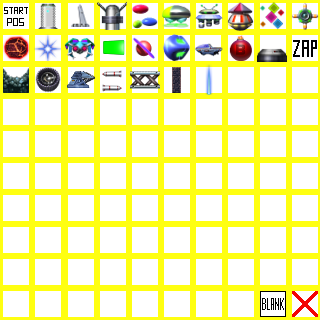
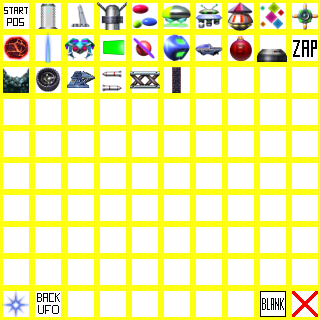
Essential backup

diff --git a/core/src/com/richikin/jetman/entities/hero/MainPlayer.java b/core/src/com/richikin/jetman/entities/hero/MainPlayer.java
@@ -26,8 +26,8 @@ public class MainPlayer extends GdxSprite
     public static final float _PLAYER_JUMP_X_SPEED = 16.0f;
     public static final float _PLAYER_Y_SPEED      = 4.0f;
 
-    private static final int   _SPAWN_FRAMES        = 20;
-    private static final int   _PLAYER_APPEAR_FRAME = 13;
+    private static final int _SPAWN_FRAMES        = 20;
+    private static final int _PLAYER_APPEAR_FRAME = 13;
 
     public boolean isRidingRover;
     public boolean isOnRoverBack;
@@ -45,12 +45,13 @@ public class MainPlayer extends GdxSprite
     public boolean isBlockedLeft;
     public boolean isBlockedRight;
 
-    public float    shootRate;
-    public int      shootCount;
-    public float    maxMoveSpeed;
+    public float shootRate;
+    public int   shootCount;
+    public float maxMoveSpeed;
 
-    private TextureRegion bridgeSection;
-    private int           laserColour;
+    private SpriteDescriptor descriptor;
+    private TextureRegion    bridgeSection;
+    private int              laserColour;
 
     public ButtonInputHandler  buttons;
     public CollisionHandler    collision;
@@ -65,9 +66,11 @@ public class MainPlayer extends GdxSprite
     }
 
     @Override
-    public void initialise(SpriteDescriptor descriptor)
+    public void initialise(SpriteDescriptor _descriptor)
     {
-        create(descriptor);
+        this.descriptor = _descriptor;
+
+        create(_descriptor);
 
         bodyCategory = Gfx.CAT_PLAYER;
         collidesWith = Gfx.CAT_MOBILE_ENEMY
@@ -317,8 +320,8 @@ public class MainPlayer extends GdxSprite
                 {
                     SpriteDescriptor descriptor = Entities.getDescriptor(this.gid);
 
-                    descriptor._ASSET = GameAssets._PLAYER_DYING;
-                    descriptor._FRAMES = GameAssets._PLAYER_DYING_FRAMES;
+                    descriptor._ASSET    = GameAssets._PLAYER_DYING;
+                    descriptor._FRAMES   = GameAssets._PLAYER_DYING_FRAMES;
                     descriptor._PLAYMODE = Animation.PlayMode.LOOP;
 
                     setAnimation(descriptor, 1.0f);
@@ -334,8 +337,8 @@ public class MainPlayer extends GdxSprite
                 {
                     SpriteDescriptor descriptor = Entities.getDescriptor(this.gid);
 
-                    descriptor._ASSET = GameAssets._PLAYER_FLY;
-                    descriptor._FRAMES = GameAssets._PLAYER_FLY_FRAMES;
+                    descriptor._ASSET    = GameAssets._PLAYER_FLY;
+                    descriptor._FRAMES   = GameAssets._PLAYER_FLY_FRAMES;
                     descriptor._PLAYMODE = Animation.PlayMode.LOOP;
 
                     setAnimation(descriptor, 1.25f);
@@ -348,8 +351,8 @@ public class MainPlayer extends GdxSprite
                 {
                     SpriteDescriptor descriptor = Entities.getDescriptor(this.gid);
 
-                    descriptor._ASSET = GameAssets._PLAYER_RUN;
-                    descriptor._FRAMES = GameAssets._PLAYER_RUN_FRAMES;
+                    descriptor._ASSET    = GameAssets._PLAYER_RUN;
+                    descriptor._FRAMES   = GameAssets._PLAYER_RUN_FRAMES;
                     descriptor._PLAYMODE = Animation.PlayMode.LOOP;
 
                     setAnimation(descriptor, 0.5f);
@@ -365,9 +368,11 @@ public class MainPlayer extends GdxSprite
                 {
                     SpriteDescriptor descriptor = Entities.getDescriptor(this.gid);
 
-                    descriptor._ASSET = GameAssets._PLAYER_IDLE;
-                    descriptor._FRAMES = GameAssets._PLAYER_STAND_FRAMES;
+                    descriptor._ASSET    = GameAssets._PLAYER_IDLE;
+                    descriptor._FRAMES   = GameAssets._PLAYER_STAND_FRAMES;
                     descriptor._PLAYMODE = Animation.PlayMode.LOOP;
+
+                    descriptor.debug();
 
                     setAnimation(descriptor, 1.0f);
 

diff --git a/core/src/com/richikin/jetman/entities/managers/BackgroundObjectsManager.java b/core/src/com/richikin/jetman/entities/managers/BackgroundObjectsManager.java
@@ -4,11 +4,13 @@ import com.badlogic.gdx.graphics.g2d.Animation;
 import com.badlogic.gdx.math.MathUtils;
 import com.richikin.jetman.assets.GameAssets;
 import com.richikin.jetman.core.App;
+import com.richikin.jetman.entities.Entities;
 import com.richikin.jetman.entities.SpriteDescriptor;
 import com.richikin.jetman.entities.characters.TwinkleStar;
 import com.richikin.jetman.entities.characters.Ufo;
 import com.richikin.jetman.graphics.Gfx;
 import com.richikin.jetman.graphics.GraphicID;
+import com.richikin.jetman.maps.TileID;
 
 public class BackgroundObjectsManager
 {
@@ -29,13 +31,18 @@ public class BackgroundObjectsManager
         for (int i = 0; i < numUfos; i++)
         {
             SpriteDescriptor entityDescriptor = new SpriteDescriptor();
+            entityDescriptor._NAME       = "Background Ufo";
+            entityDescriptor._GID        = GraphicID.G_BACKGROUND_UFO;
+            entityDescriptor._TYPE       = GraphicID._ENTITY;
             entityDescriptor._ASSET      = GameAssets._BACKGROUND_UFO_ASSET;
             entityDescriptor._FRAMES     = GameAssets._BACKGROUND_UFO_FRAMES;
             entityDescriptor._PLAYMODE   = Animation.PlayMode.LOOP;
+            entityDescriptor._SIZE       = GameAssets.getAssetSize(GraphicID.G_BACKGROUND_UFO);
             entityDescriptor._POSITION.x = 0;
             entityDescriptor._POSITION.y = 0;
             entityDescriptor._POSITION.z = app.entityUtils.getInitialZPosition(GraphicID.G_BACKGROUND_UFO);
             entityDescriptor._INDEX      = app.entityData.entityMap.size;
+            entityDescriptor._TILE       = TileID._BACKGROUND_UFO_TILE;
 
             Ufo ufo = new Ufo(app);
             ufo.initialise(entityDescriptor);
@@ -71,9 +78,9 @@ public class BackgroundObjectsManager
         {
             String asset = (MathUtils.random(100) < 50) ? GameAssets._TWINKLE_STAR1_ASSET : GameAssets._TWINKLE_STAR2_ASSET;
 
-            SpriteDescriptor entityDescriptor = new SpriteDescriptor();
+            SpriteDescriptor entityDescriptor = Entities.getDescriptor(GraphicID.G_TWINKLE_STAR);
             entityDescriptor._ASSET      = asset;
-            entityDescriptor._FRAMES     = GameAssets._TWINKLE_STAR_FRAMES;
+            entityDescriptor._SIZE       = GameAssets.getAssetSize(GraphicID.G_TWINKLE_STAR);
             entityDescriptor._PLAYMODE   = Animation.PlayMode.LOOP;
             entityDescriptor._POSITION.x = position[0] / Gfx.getTileWidth();
             entityDescriptor._POSITION.y = position[1] / Gfx.getTileHeight();

diff --git a/core/src/com/richikin/jetman/entities/SpriteDescriptor.java b/core/src/com/richikin/jetman/entities/SpriteDescriptor.java
@@ -9,6 +9,7 @@ import com.richikin.jetman.maths.SimpleVec2F;
 import com.richikin.jetman.maths.SimpleVec3;
 import com.richikin.jetman.physics.Direction;
 import com.richikin.jetman.physics.Speed;
+import com.richikin.jetman.utils.logging.Trace;
 
 /**
  * Used for storing relevant information for
@@ -45,7 +46,7 @@ public class SpriteDescriptor
         this._INDEX     = 0;
         this._FRAMES    = 0;
         this._PLAYMODE  = Animation.PlayMode.NORMAL;
-        this._ANIM_RATE = 0f;
+        this._ANIM_RATE = 1.0f;
         this._NAME      = "";
         this._ASSET     = "";
         this._LINK      = 0;
@@ -93,5 +94,27 @@ public class SpriteDescriptor
         this._DIST      = _descriptor._DIST;
         this._SPEED     = _descriptor._SPEED;
         this._BOX       = _descriptor._BOX;
+    }
+
+    public void debug()
+    {
+        Trace.__FILE_FUNC_WithDivider();
+        Trace.dbg("_GID            : " + _GID);
+        Trace.dbg("_TYPE           : " + _TYPE);
+        Trace.dbg("_POSITION       : " + (_POSITION != null ? _POSITION.toString() : "NOT SET"));
+        Trace.dbg("_SIZE           : " + (_SIZE != null ? _SIZE.toString() : "NOT SET"));
+        Trace.dbg("_INDEX          : " + _INDEX);
+        Trace.dbg("_FRAMES         : " + _FRAMES);
+        Trace.dbg("_PLAYMODE       : " + _PLAYMODE);
+        Trace.dbg("_ANIM_RATE      : " + _ANIM_RATE);
+        Trace.dbg("_NAME           : " + (_NAME != null ? _NAME.toString() : "NOT SET"));
+        Trace.dbg("_ASSET          : " + (_ASSET != null ? _ASSET.toString() : "NOT SET"));
+        Trace.dbg("_LINK           : " + _LINK);
+        Trace.dbg("_TILE           : " + _TILE);
+        Trace.dbg("_PARENT         : " + _PARENT);
+        Trace.dbg("_DIR            : " + (_DIR != null ? _DIR.toString() : "NOT SET"));
+        Trace.dbg("_DIST           : " + (_DIST != null ? _DIST.toString() : "NOT SET"));
+        Trace.dbg("_SPEED          : " + (_SPEED != null ? _SPEED.toString() : "NOT SET"));
+        Trace.dbg("_BOX            : " + (_BOX != null ? _BOX.toString() : "NOT SET"));
     }
 }

diff --git a/core/src/com/richikin/jetman/entities/Entities.java b/core/src/com/richikin/jetman/entities/Entities.java
@@ -31,6 +31,20 @@ public abstract class Entities
                     GameAssets._ROVER_GUN_ASSET, GameAssets._ROVER_GUN_FRAMES,
                     TileID._ROVER_GUN_TILE
                 ),
+            new SpriteDescriptor
+                (
+                    "Rover Wheel",
+                    GraphicID.G_ROVER_WHEEL, GraphicID._MAIN,
+                    GameAssets._ROVER_WHEEL_ASSET, GameAssets._ROVER_WHEEL_FRAMES,
+                    TileID._ROVER_WHEEL_TILE
+                ),
+            new SpriteDescriptor
+                (
+                    "Rover Boot",
+                    GraphicID.G_ROVER_BOOT, GraphicID._MAIN,
+                    GameAssets._ROVER_BOOT_ASSET, GameAssets._ROVER_BOOT_FRAMES,
+                    TileID._ROVER_BOOT_TILE
+                ),
 
             // Pickups
             new SpriteDescriptor
@@ -64,6 +78,23 @@ public abstract class Entities
             // Mobile Enemies
 
             // Miscellaneous Enemy Related
+
+            // Background Sprites
+            new SpriteDescriptor
+                (
+                    "Background Ufo",
+                    GraphicID.G_BACKGROUND_UFO, GraphicID._BACKGROUND_ENTITY,
+                    GameAssets._BACKGROUND_UFO_ASSET, GameAssets._BACKGROUND_UFO_FRAMES,
+                    TileID._BACKGROUND_UFO_TILE
+                ),
+
+            new SpriteDescriptor
+                (
+                    "Twinkle Star",
+                    GraphicID.G_TWINKLE_STAR, GraphicID._BACKGROUND_ENTITY,
+                    GameAssets._TWINKLE_STAR1_ASSET, GameAssets._TWINKLE_STAR_FRAMES,
+                    TileID._TWINKLE_STAR_TILE
+                ),
         };
 
     public static int getDescriptorIndex(GraphicID _gid)

diff --git a/core/src/com/richikin/jetman/entities/characters/Rover.java b/core/src/com/richikin/jetman/entities/characters/Rover.java
@@ -6,6 +6,7 @@ import com.badlogic.gdx.graphics.g2d.SpriteBatch;
 import com.richikin.jetman.assets.GameAssets;
 import com.richikin.jetman.core.Actions;
 import com.richikin.jetman.core.App;
+import com.richikin.jetman.entities.Entities;
 import com.richikin.jetman.entities.GdxSprite;
 import com.richikin.jetman.entities.SpriteDescriptor;
 import com.richikin.jetman.graphics.Gfx;
@@ -83,9 +84,8 @@ public class Rover extends GdxSprite
     {
         Trace.__FILE_FUNC();
 
-        SpriteDescriptor descriptor = new SpriteDescriptor();
-        descriptor._ASSET         = GameAssets._ROVER_WHEEL_ASSET;
-        descriptor._FRAMES        = GameAssets._ROVER_WHEEL_FRAMES;
+        SpriteDescriptor descriptor = Entities.getDescriptor(GraphicID.G_ROVER_WHEEL);
+        descriptor._SIZE          = GameAssets.getAssetSize(GraphicID.G_ROVER_WHEEL);
         descriptor._PLAYMODE      = Animation.PlayMode.NORMAL;
         descriptor._POSITION.x    = 0;
         descriptor._POSITION.y    = 0;
@@ -119,9 +119,10 @@ public class Rover extends GdxSprite
         {
             Trace.__FILE_FUNC("Adding Rover Boot.");
 
+            descriptor = Entities.getDescriptor(GraphicID.G_ROVER_BOOT);
+            descriptor._SIZE = GameAssets.getAssetSize(GraphicID.G_ROVER_BOOT);
+            descriptor._POSITION.z = app.entityUtils.getInitialZPosition(GraphicID.G_ROVER_BOOT);
             descriptor._INDEX = app.entityData.entityMap.size;
-            descriptor._ASSET = GameAssets._ROVER_BOOT_ASSET;
-            descriptor._FRAMES = GameAssets._ROVER_BOOT_FRAMES;
 
             roverBack = new GdxSprite(GraphicID.G_ROVER_BOOT, app);
             roverBack.create(descriptor);

diff --git a/core/src/com/richikin/jetman/maps/TileID.java b/core/src/com/richikin/jetman/maps/TileID.java
@@ -19,7 +19,7 @@ public enum TileID
 
     // Row 2
     _ASTEROID_TILE              (11),
-    _TWINKLE_STAR_TILE          (12),
+    _BEAM_TILE                  (12),
     _DOG_TILE                   (13),
     _GREEN_BLOCK_TILE           (14),
     _SPINNING_BALL_TILE         (15),
@@ -36,7 +36,7 @@ public enum TileID
     _ROCKET_TILE                (24),
     _BRIDGE_TILE                (25),
     _TOWER_TILE                 (26),
-    _BEAM_TILE                  (27),
+    _U27_TILE                   (27),
     _U28_TILE                   (28),
     _U29_TILE                   (29),
     _U30_TILE                   (30),
@@ -114,8 +114,8 @@ public enum TileID
     _U90_TILE                   (90),
 
     // Row 10
-    _U91_TILE                   (91),
-    _U92_TILE                   (92),
+    _TWINKLE_STAR_TILE          (91),
+    _BACKGROUND_UFO_TILE        (92),
     _U93_TILE                   (93),
     _U94_TILE                   (94),
     _U95_TILE                   (95),
@@ -124,6 +124,12 @@ public enum TileID
     _U98_TILE                   (98),
     _BLANK_TILE                 (99),
     _NO_ACTION_TILE             (100),
+
+    // Tile IDs for entities that are never
+    // placed into a tilemap, but are created
+    // programmatically.
+    _ROVER_WHEEL_TILE           ( 110),
+    _ROVER_BOOT_TILE            ( 111),
 
     // Tile IDs that are used in path finding
     // These tiles may not necessarily have images

diff --git a/core/src/com/richikin/jetman/entities/managers/PlayerManager.java b/core/src/com/richikin/jetman/entities/managers/PlayerManager.java
@@ -4,6 +4,7 @@ import com.badlogic.gdx.graphics.g2d.Animation;
 import com.badlogic.gdx.math.MathUtils;
 import com.richikin.jetman.assets.GameAssets;
 import com.richikin.jetman.core.App;
+import com.richikin.jetman.entities.Entities;
 import com.richikin.jetman.entities.SpriteDescriptor;
 import com.richikin.jetman.entities.hero.MainPlayer;
 import com.richikin.jetman.graphics.Gfx;
@@ -36,9 +37,7 @@ public class PlayerManager
             playerTileY = app.roomManager.getStartPosition().y;
         }
 
-        entityDescriptor             = new SpriteDescriptor();
-        entityDescriptor._ASSET      = GameAssets._PLAYER_IDLE;
-        entityDescriptor._FRAMES     = GameAssets._PLAYER_STAND_FRAMES;
+        entityDescriptor             = Entities.getDescriptor(GraphicID.G_PLAYER);
         entityDescriptor._PLAYMODE   = Animation.PlayMode.LOOP;
         entityDescriptor._POSITION.x = playerTileX;
         entityDescriptor._POSITION.y = playerTileY;

diff --git a/core/src/com/richikin/jetman/entities/managers/RoverManager.java b/core/src/com/richikin/jetman/entities/managers/RoverManager.java
@@ -81,10 +81,13 @@ public class RoverManager extends GenericEntityManager
             SimpleVec2 roverPos = getStartPosition();
 
             entityDescriptor = Entities.getDescriptor(GraphicID.G_ROVER);
+            entityDescriptor._SIZE = GameAssets.getAssetSize(GraphicID.G_ROVER);
+            entityDescriptor._PLAYMODE = Animation.PlayMode.LOOP;
+            entityDescriptor._ANIM_RATE = 5f / 6f;
             entityDescriptor._POSITION.x = roverPos.x;
             entityDescriptor._POSITION.y = roverPos.y;
             entityDescriptor._POSITION.z = app.entityUtils.getInitialZPosition(GraphicID.G_ROVER);
-            entityDescriptor._ANIM_RATE = 5f / 6f;
+            entityDescriptor._INDEX = app.entityData.entityMap.size;
 
             Rover rover = new Rover(app);
             rover.initialise(entityDescriptor);

diff --git a/core/src/com/richikin/jetman/entities/characters/Ufo.java b/core/src/com/richikin/jetman/entities/characters/Ufo.java
@@ -15,16 +15,9 @@ import com.richikin.jetman.utils.logging.Trace;
 
 public class Ufo extends GdxSprite
 {
-    private final App app;
-
     public Ufo(final App _app)
     {
         super(GraphicID.G_BACKGROUND_UFO, _app);
-
-        this.app = _app;
-
-        bodyCategory = Gfx.CAT_SCENERY;
-        collidesWith = Gfx.CAT_NOTHING;
     }
 
     @Override
@@ -34,6 +27,9 @@ public class Ufo extends GdxSprite
 
         setAction(Actions._RUNNING);
         sprite.setColor(Color.WHITE);
+
+        bodyCategory = Gfx.CAT_SCENERY;
+        collidesWith = Gfx.CAT_NOTHING;
 
         elapsedAnimTime = 0;
         isDrawable = true;

diff --git a/core/src/com/richikin/jetman/assets/GameAssets.java b/core/src/com/richikin/jetman/assets/GameAssets.java
@@ -114,6 +114,8 @@ public class GameAssets
     private static final AssetSize[] assetSizes =
         {
             new AssetSize(GraphicID.G_ROVER,            303, 131),
+            new AssetSize(GraphicID.G_ROVER_WHEEL,       68,  68),
+            new AssetSize(GraphicID.G_ROVER_BOOT,       108,  14),
             new AssetSize(GraphicID.G_MISSILE_LAUNCHER,  90, 120),
             new AssetSize(GraphicID.G_ASTEROID,          60,  60),
             new AssetSize(GraphicID.G_ALIEN_WHEEL,       48,  48),

diff --git a/core/src/com/richikin/jetman/graphics/GraphicID.java b/core/src/com/richikin/jetman/graphics/GraphicID.java
@@ -87,6 +87,7 @@ public enum GraphicID
     _SPEECH,
     _HUD_PANEL,
     _EXIT_BOX,
+    _BACKGROUND_ENTITY,
 
     // ----------------------------
     // Encapsulating type, covering any collision IDs that can be stood on.
